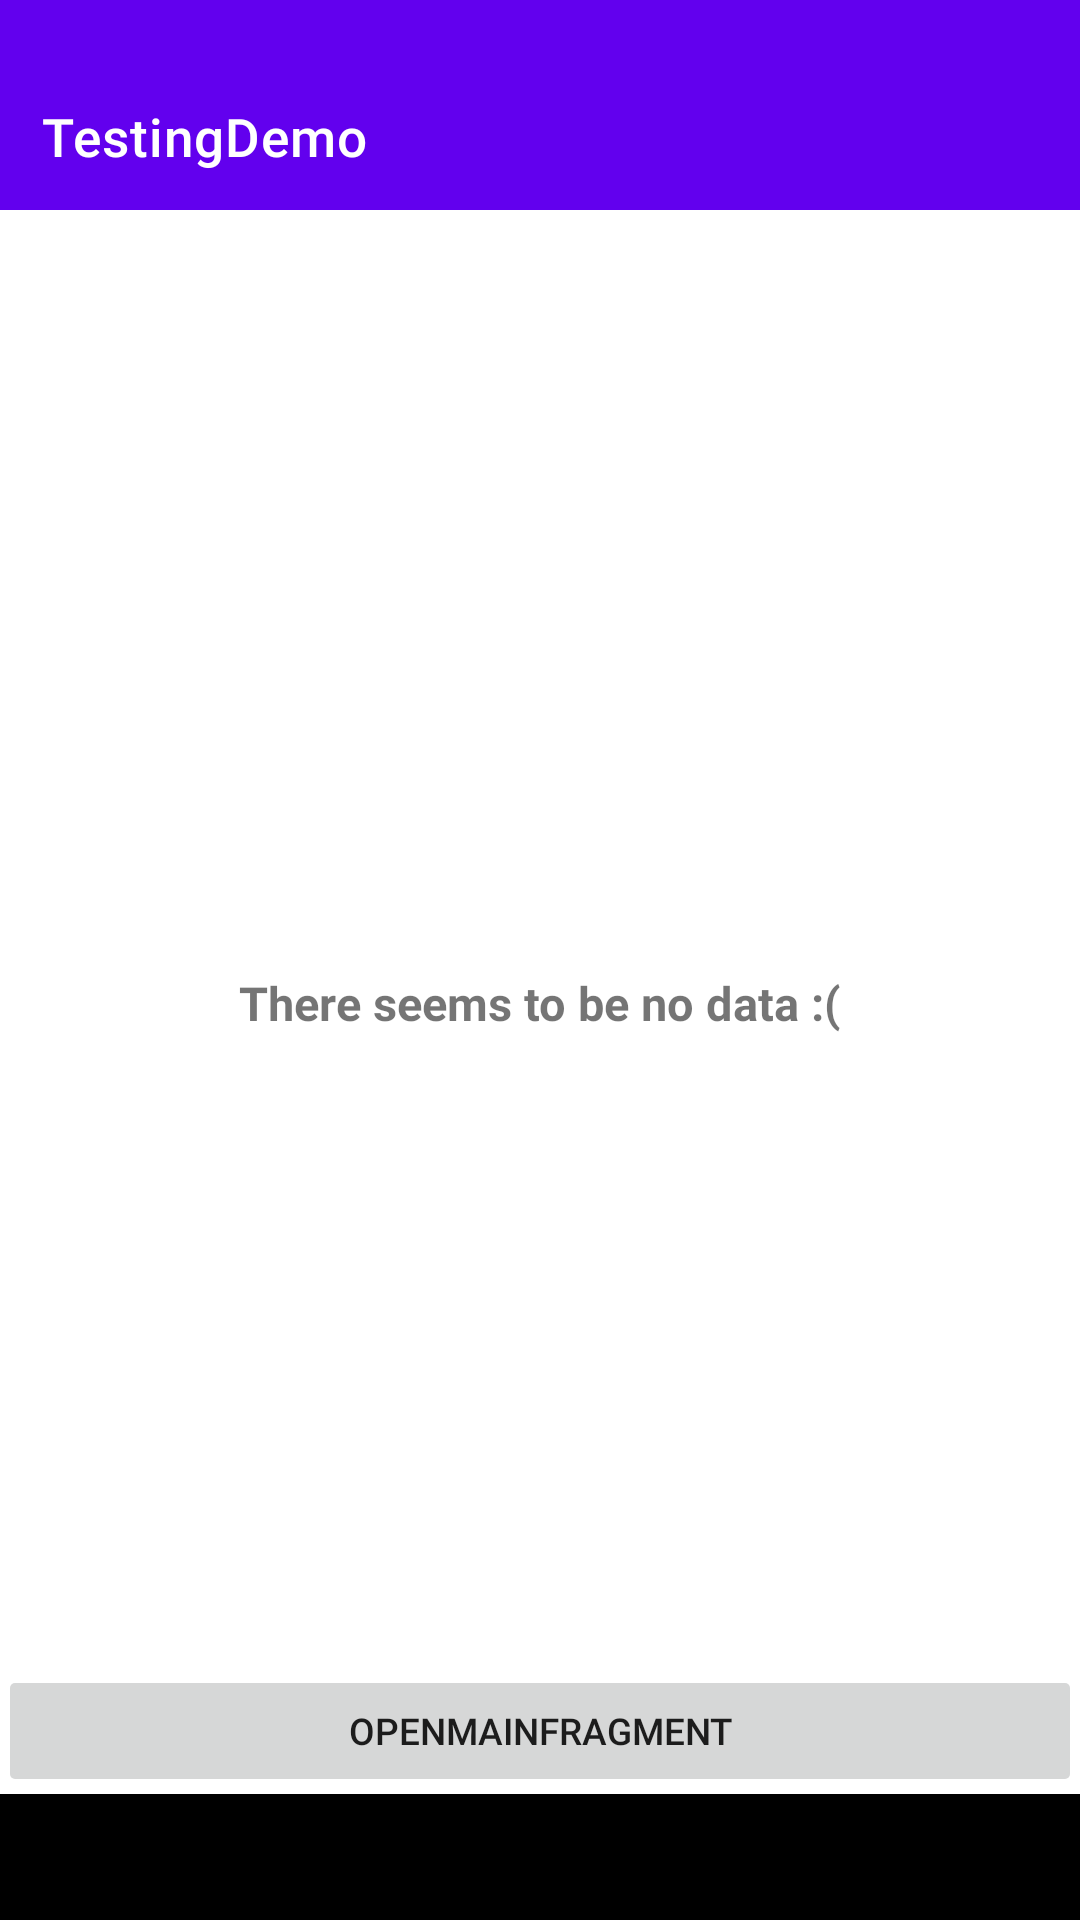
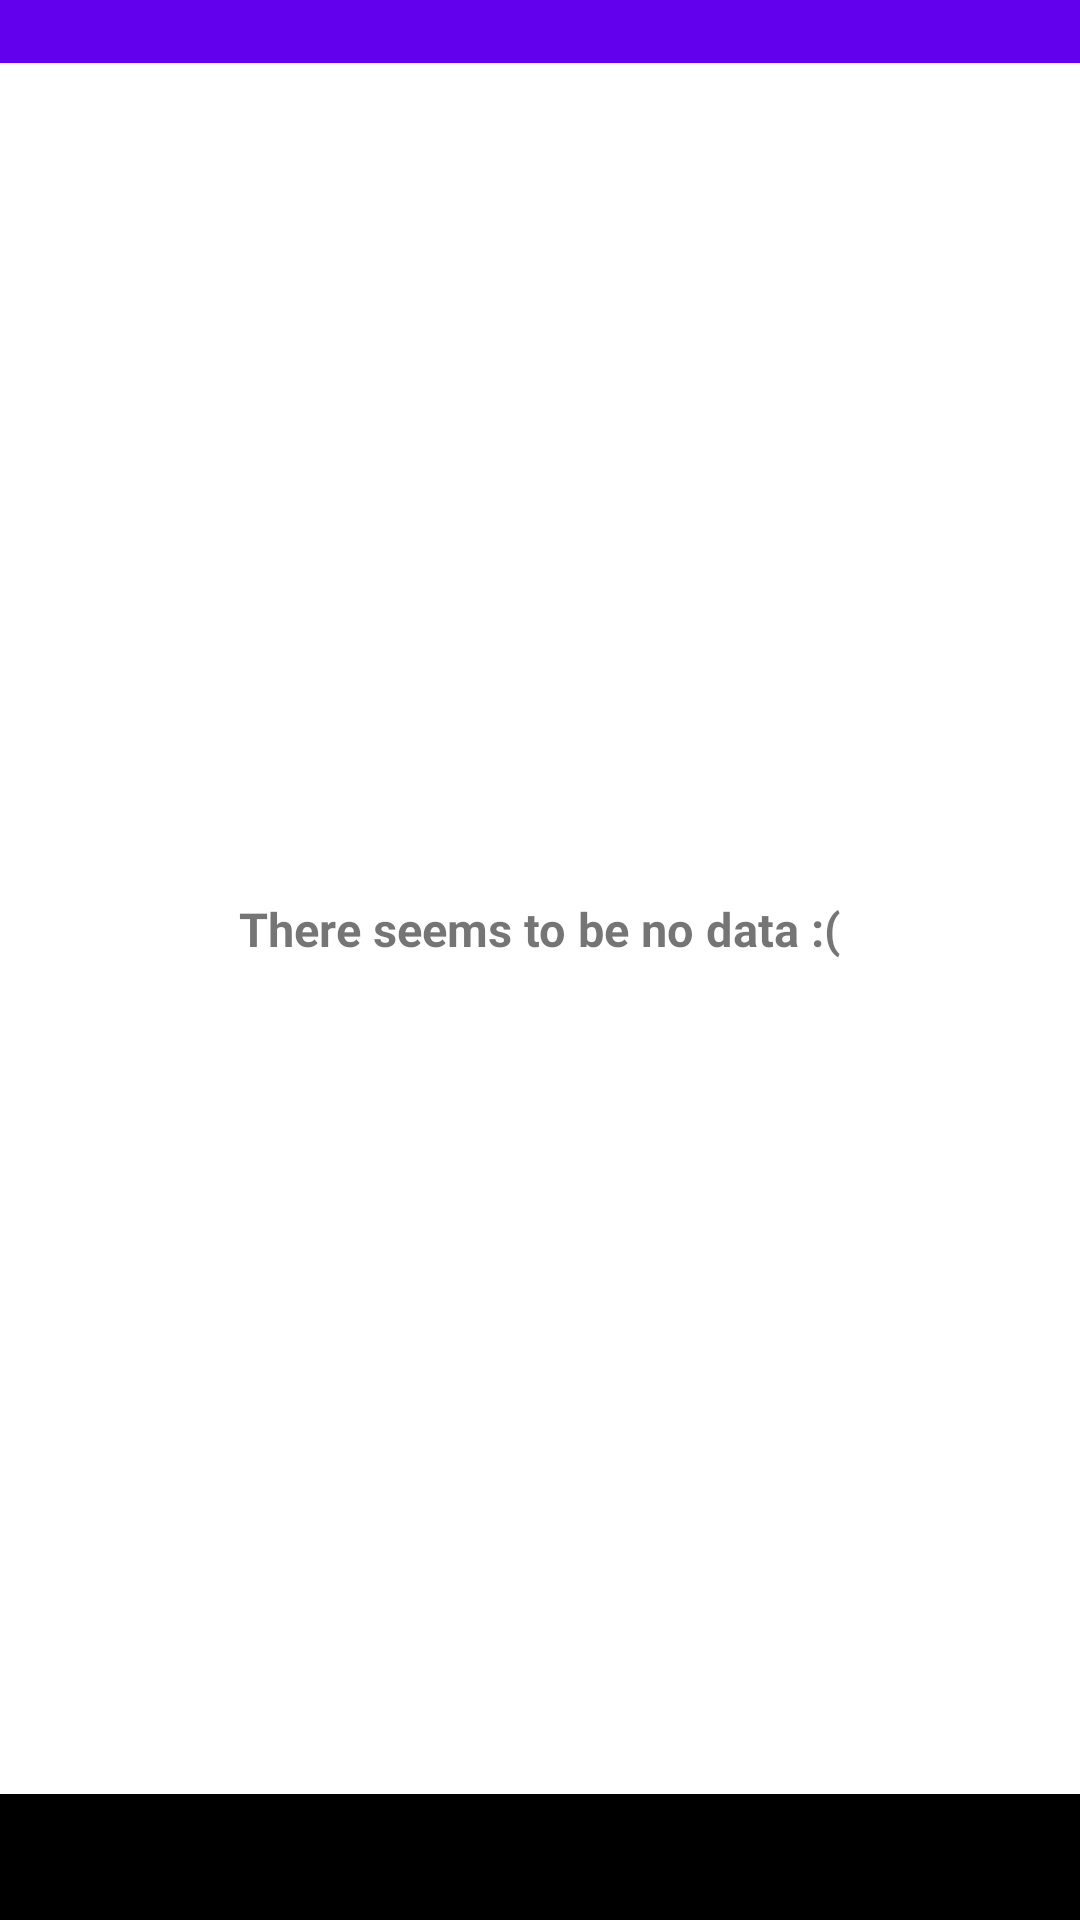
Optimise baseUrlModule and update screenshot test

Changed region(s): [[0.0, 0.0312, 1.0, 0.125], [0.0, 0.875, 1.0, 0.9375], [0.2139, 0.4688, 0.7944, 0.5312]]

diff --git a/app/src/androidTest/java/com/leevinapp/testingdemo/MainFragmentTest.kt b/app/src/androidTest/java/com/leevinapp/testingdemo/MainFragmentTest.kt
@@ -1,5 +1,8 @@
 package com.leevinapp.testingdemo
 
+import androidx.fragment.app.FragmentActivity
+import androidx.fragment.app.testing.launchFragmentInContainer
+import androidx.lifecycle.Lifecycle
 import androidx.test.espresso.Espresso
 import androidx.test.espresso.assertion.ViewAssertions.matches
 import androidx.test.espresso.matcher.ViewMatchers
@@ -8,8 +11,6 @@ import androidx.test.espresso.matcher.ViewMatchers.isDisplayed
 import androidx.test.espresso.matcher.ViewMatchers.withId
 import androidx.test.espresso.matcher.ViewMatchers.withText
 import androidx.test.ext.junit.runners.AndroidJUnit4
-import androidx.test.platform.app.InstrumentationRegistry
-import androidx.test.rule.ActivityTestRule
 import com.facebook.testing.screenshot.Screenshot
 import com.leevinapp.testingdemo.ui.MainFragment
 import com.leevinapp.testingdemo.utils.ResourceFile
@@ -22,7 +23,6 @@ import org.hamcrest.Matchers.allOf
 import org.hamcrest.Matchers.not
 import org.junit.After
 import org.junit.Before
-import org.junit.Rule
 import org.junit.Test
 import org.junit.runner.RunWith
 import java.util.concurrent.TimeUnit
@@ -30,17 +30,12 @@ import java.util.concurrent.TimeUnit
 @RunWith(AndroidJUnit4::class)
 class MainFragmentTest {
 
-    @get:Rule
-    val testActivityRule = ActivityTestRule(SingleFragmentActivity::class.java, true, true)
-
-    lateinit var fragment: MainFragment
-
     private val mockWebServer = MockWebServer()
+    private var activity: FragmentActivity? = null
 
     @Before
-    fun setUp() {
+    fun setup() {
         mockWebServer.start(8000)
-        fragment = MainFragment()
     }
 
     @After
@@ -58,8 +53,7 @@ class MainFragmentTest {
             }
         }
 
-        testActivityRule.activity.replaceFragment(fragment)
-
+        launchAndMoveToResume()
         ViewIdlingResource.waitUntilIdleMatcherIsFulfilled(withId(R.id.textviewSuccess), isDisplayed())
 
         Espresso.onView(withId(R.id.progress_bar))
@@ -68,11 +62,15 @@ class MainFragmentTest {
             .check(matches(isDisplayed()))
         Espresso.onView(withId(R.id.textview))
             .check(matches(not(isDisplayed())))
+
+        Screenshot.snapActivity(activity)
+            .setName("Success_Page")
+            .record()
     }
 
     @Test
     fun testLoadingBeforeResponseReturn() {
-        testActivityRule.activity.replaceFragment(fragment)
+        launchAndMoveToResume()
 
         Espresso.onView(withId(R.id.progress_bar))
             .check(matches(isDisplayed()))
@@ -83,7 +81,7 @@ class MainFragmentTest {
         Espresso.onView(withId(R.id.textview))
             .check(matches(not(isDisplayed())))
 
-        Screenshot.snapActivity(testActivityRule.activity)
+        Screenshot.snapActivity(activity)
             .setName("Loading_View")
             .record()
     }
@@ -96,11 +94,9 @@ class MainFragmentTest {
             }
         }
 
-        testActivityRule.activity.replaceFragment(fragment)
+        launchAndMoveToResume()
 
-        InstrumentationRegistry.getInstrumentation().waitForIdleSync()
-
-        ViewIdlingResource.waitUntilIdleMatcherIsFulfilled(allOf(withId(R.id.textview), withText(R.string.error_message)), isCompletelyDisplayed())
+        ViewIdlingResource.waitUntilIdleMatcherIsFulfilled(allOf(withId(R.id.textview), withText(R.string.error_message)), isDisplayed())
 
         Espresso.onView(withId(R.id.progress_bar))
             .check(matches(not(isDisplayed())))
@@ -111,13 +107,14 @@ class MainFragmentTest {
         Espresso.onView(withId(R.id.textview))
             .check(matches(withText(R.string.error_message)))
 
-        Screenshot.snapActivity(testActivityRule.activity)
+        Screenshot.snapActivity(activity)
             .setName("Failed_Page")
             .record()
     }
 
     @Test
     fun testEmptyResponse() {
+        // Given
         mockWebServer.dispatcher = object : Dispatcher() {
             override fun dispatch(request: RecordedRequest): MockResponse {
                 return MockResponse()
@@ -125,12 +122,11 @@ class MainFragmentTest {
                     .setBody("[]")
             }
         }
-        testActivityRule.activity.replaceFragment(fragment)
-
-        InstrumentationRegistry.getInstrumentation().waitForIdleSync()
-
+        // When
+        launchAndMoveToResume()
         ViewIdlingResource.waitUntilIdleMatcherIsFulfilled(allOf(withId(R.id.textview), withText(R.string.no_data_message)), isCompletelyDisplayed())
 
+        // Then
         Espresso.onView(withId(R.id.progress_bar))
             .check(matches(ViewMatchers.withEffectiveVisibility(ViewMatchers.Visibility.GONE)))
         Espresso.onView(withId(R.id.textviewSuccess))
@@ -140,12 +136,20 @@ class MainFragmentTest {
         Espresso.onView(withId(R.id.textview))
             .check(matches(withText(R.string.no_data_message)))
 
-        Screenshot.snapActivity(testActivityRule.activity)
+        Screenshot.snapActivity(activity)
             .setName("Empty_Page")
             .record()
     }
 
     fun loadLocalResponse(path: String): String {
         return ResourceFile(path).readText()
+    }
+
+    private fun launchAndMoveToResume() {
+        launchFragmentInContainer<MainFragment>(themeResId = R.style.AppTheme).moveToState(
+            Lifecycle.State.RESUMED
+        ).onFragment {
+            this.activity = it.activity
+        }
     }
 }

diff --git a/app/src/androidTest/java/com/leevinapp/testingdemo/di/TestBaseUrlModule.kt b/app/src/androidTest/java/com/leevinapp/testingdemo/di/TestBaseUrlModule.kt
@@ -1,56 +1,14 @@
 package com.leevinapp.testingdemo.di
 
-import com.google.gson.GsonBuilder
-import com.leevinapp.testingdemo.data.GithubApiService
-import com.leevinapp.testingdemo.data.UserDataRepositoryImpl
-import com.leevinapp.testingdemo.repository.UserDataRepository
 import dagger.Module
 import dagger.Provides
-import okhttp3.OkHttpClient
-import retrofit2.Retrofit
-import retrofit2.converter.gson.GsonConverterFactory
-import java.util.concurrent.TimeUnit
 import javax.inject.Singleton
 
 @Module
-class TestAppModule {
+class TestBaseUrlModule {
     @Singleton
     @Provides
     fun providerBaseUrl(): String {
         return "http://localhost:8000"
-    }
-
-    @Singleton
-    @Provides
-    fun providerOkhttpClient(): OkHttpClient {
-        return OkHttpClient.Builder()
-            .readTimeout(REQUEST_TIMEOUT, TimeUnit.SECONDS)
-            .connectTimeout(REQUEST_TIMEOUT, TimeUnit.SECONDS)
-            .build()
-    }
-
-    @Singleton
-    @Provides
-    fun providerRetrofit(baseUrl: String, okHttpClient: OkHttpClient): Retrofit {
-        return Retrofit.Builder()
-            .baseUrl(baseUrl)
-            .addConverterFactory(
-                GsonConverterFactory.create(
-                    GsonBuilder().setPrettyPrinting().create()
-                )
-            )
-            .client(okHttpClient)
-            .build()
-    }
-
-    @Provides
-    fun providerGithubApiService(retrofit: Retrofit): GithubApiService {
-        return retrofit.create(GithubApiService::class.java)
-    }
-
-    @Singleton
-    @Provides
-    fun providerUserDataRepository(githubApiService: GithubApiService): UserDataRepository {
-        return UserDataRepositoryImpl(githubApiService)
     }
 }

diff --git a/app/src/main/java/com/leevinapp/testingdemo/di/AppModule.kt b/app/src/main/java/com/leevinapp/testingdemo/di/AppModule.kt
@@ -19,12 +19,6 @@ class AppModule {
 
     @Singleton
     @Provides
-    fun providerBaseUrl(): String {
-        return "https://api.github.com"
-    }
-
-    @Singleton
-    @Provides
     fun providerOkhttpClient(): OkHttpClient {
         return OkHttpClient.Builder()
             .readTimeout(REQUEST_TIMEOUT, TimeUnit.SECONDS)

diff --git a/app/src/main/java/com/leevinapp/testingdemo/di/AppComponent.kt b/app/src/main/java/com/leevinapp/testingdemo/di/AppComponent.kt
@@ -8,7 +8,7 @@ import dagger.Component
 import javax.inject.Singleton
 
 @Singleton
-@Component(modules = [AppModule::class, ViewModelModule::class])
+@Component(modules = [AppModule::class, BaseUrlModule::class, ViewModelModule::class])
 interface AppComponent {
 
     // Factory to create instances of the AppComponent

diff --git a/app/src/main/java/com/leevinapp/testingdemo/di/BaseUrlModule.kt b/app/src/main/java/com/leevinapp/testingdemo/di/BaseUrlModule.kt
@@ -5,10 +5,10 @@ import dagger.Provides
 import javax.inject.Singleton
 
 @Module
-class TestBaseUrlModule {
+class BaseUrlModule {
     @Singleton
     @Provides
     fun providerBaseUrl(): String {
-        return "http://localhost:8000"
+        return "https://api.github.com"
     }
 }

diff --git a/app/src/androidTest/java/com/leevinapp/testingdemo/di/TestAppComponent.kt b/app/src/androidTest/java/com/leevinapp/testingdemo/di/TestAppComponent.kt
@@ -4,5 +4,5 @@ import dagger.Component
 import javax.inject.Singleton
 
 @Singleton
-@Component(modules = [TestAppModule::class, ViewModelModule::class])
+@Component(modules = [AppModule::class, TestBaseUrlModule::class, ViewModelModule::class])
 interface TestAppComponent : AppComponent
